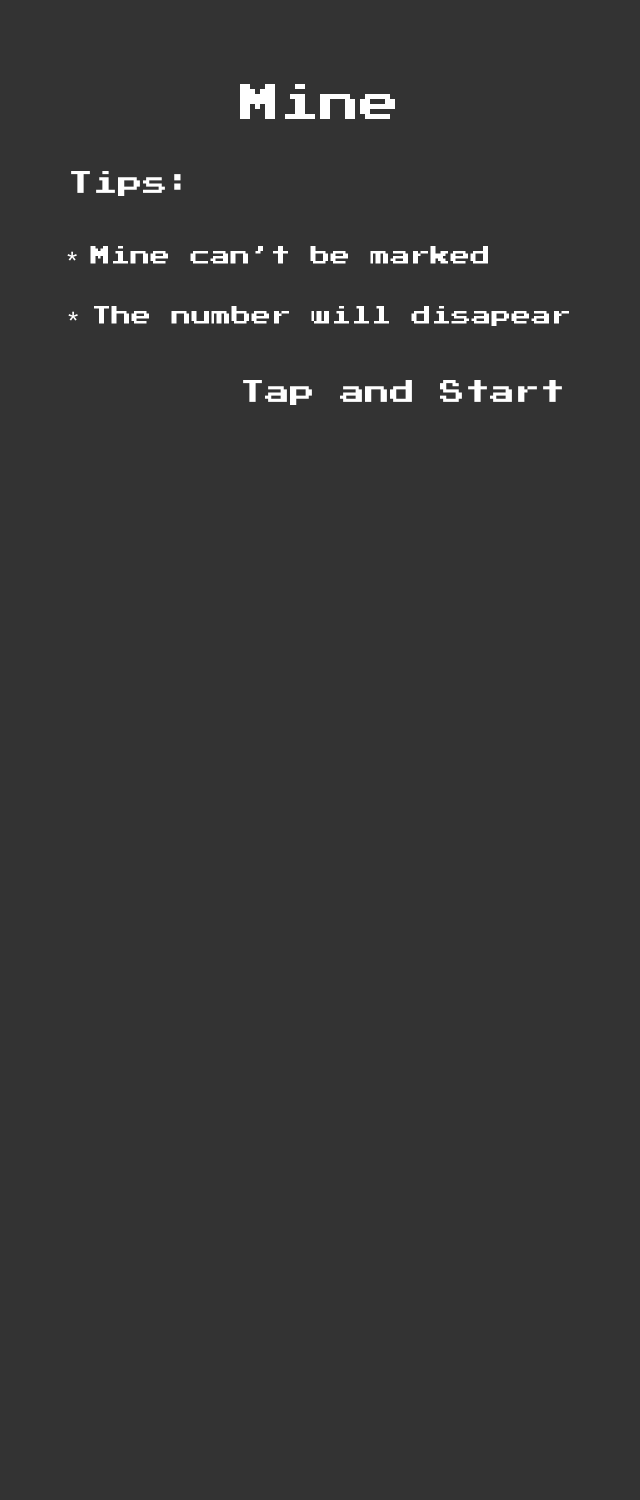
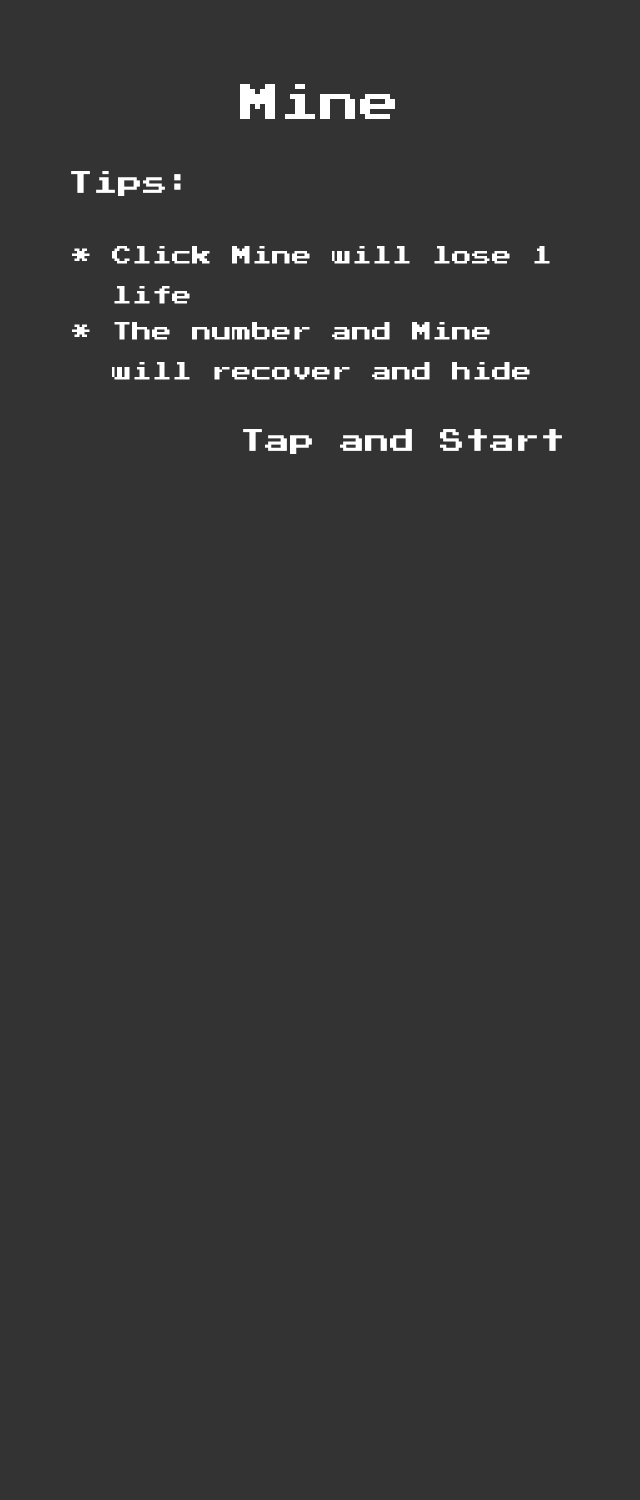
new mine

Changed region(s): [[0.0938, 0.1533, 0.875, 0.3067]]

diff --git a/src/game.js b/src/game.js
@@ -1,16 +1,19 @@
 var generator = require('./sprites/blockGenerator.js')
 var params = require('./params')
 var stage = new PIXI.Container()
-
+var life = require('./sprites/life')
 var clearGame = function() {
   stage.removeChildren()
   stage.mines = []
   stage.blocks = []
+  params.mineCount = 0
+  life.setLifeCount(12)
 }
 
 var initGame = function() {
   initMineArray()
   initBlocks()
+  console.log(stage.mines)
 }
 
 var initMineArray = function () {
@@ -38,9 +41,21 @@ var initBlocks = function() {
 var onClickBlock = function() {
   var indexPath = this.indexPath
   if (checkMine(indexPath)) {
-    this.over()
-    stage.over()
+    this.isMine = true
+    if (this.showtimer === 0) {
+      params.mineCount ++
+      life.setLifeCount(life.lifeCount - 1)
+      if (life.lifeCount === 0) {
+        stage.over()
+      }
+      if (this.mineCount >= 10) {
+        stage.success()
+      }
+      this.showtimer = 500
+      this.over()
+    }
   } else {
+    this.isMine = false
     showBlock(indexPath)
   }
 }
@@ -120,9 +135,10 @@ var postion = function(i, j) {
 stage.resetGame = function() {
   clearGame()
   initGame()
+  stage.render = render
 }
 
-stage.render = function() {
+var render = function() {
   stage.children.map(function(child) {
     if(child.render) {
       child.render()
@@ -132,6 +148,8 @@ stage.render = function() {
 
 stage.over = function () {
   this.addMask()
+  document.title = '非常熟悉的扫雷游戏，真的'
+  stage.render = undefined
 }
 
 stage.addMask = function() {
@@ -140,6 +158,12 @@ stage.addMask = function() {
 
 stage.removeMask = function() {
   stage.parent.overMask.visible = false
+  stage.parent.success.visible = false
+}
+
+stage.success = function() {
+  stage.parent.success.visible = true
+  document.title = '我是扫雷小王子!不服你也扫个给我看看'
 }
 
 module.exports = stage

diff --git a/src/sprites/blockGenerator.js b/src/sprites/blockGenerator.js
@@ -21,11 +21,11 @@ var generator = function(color, postion, ontouch) {
   container.graphics = graphics
   container.over = function () {
      this.graphics.make(param.color.red)
-     this.showtimer = 0
   }
   container.on('touchstart', ontouch)
   container.interactive = true
   container.showText = function(string) {
+    this.isMine = false
     this.graphics.alpha = 0
     this.text.text = string
     container.showtimer = 500
@@ -35,8 +35,14 @@ var generator = function(color, postion, ontouch) {
   container.render = function () {
     if (this.showtimer <= 0) {
       this.graphics.alpha = 1
+      this.graphics.make(param.color.blue)
+      if (this.isMine) {
+        param.mineCount --
+      }
     } else {
-      this.graphics.alpha = 0
+      if (!this.isMine) {
+        this.graphics.alpha = 0
+      }
       this.showtimer --
     }
   }

diff --git a/src/index.js b/src/index.js
@@ -19,10 +19,16 @@ loader.add(params.png, 'png').load(function() {
     game.resetGame()
     game.removeMask()
   })
+  var life = require('./sprites/life')
+  stage.addChild(life)
   var mask = require('./sprites/mask')
   mask.visible = false
   stage.overMask = mask
+  var success = require('./sprites/success')
+  success.visible = false
+  stage.successMask = success
   stage.addChild(mask)
+  stage.addChild(success)
   stage.addChild(reset)
   var start = require('./sprites/start')
   stage.addChild(start)

diff --git a/tasks/qiniu.js b/tasks/qiniu.js
@@ -1,6 +1,7 @@
 var path = require('path');
 var qnUpload = require('gulp-qiniu');
 var src = path.resolve(__dirname,'../src/resource/*/*.*');
+var optionDir = 'mine'
 module.exports = function(gulp){
   gulp.task('qiniu',function(){
     gulp.src(src).pipe(qnUpload({
@@ -9,6 +10,7 @@ module.exports = function(gulp){
       bucket: "pixigame",
       private: false
     },{
+      dir: optionDir,
       versionFile: './cdn.json'
     }))
   });

diff --git a/src/sprites/life/index.js b/src/sprites/life/index.js
@@ -1,0 +1,9 @@
+var param = require('../../params')
+var text = new PIXI.Text('',{font : '36px Arial', fill :param.color.blue, align : 'center'})
+text.y = 10
+text.lifeCount = 12
+text.setLifeCount = function (count) {
+  this.lifeCount = count
+  this.text = '剩余生命: ' + count + ' 条' 
+}
+module.exports = text

diff --git a/src/loader.js b/src/loader.js
@@ -4,7 +4,7 @@ var path
 if (window.NODE_ENV == 'develop') {
   path = 'games/boating/src/resource/'
 } else if (window.NODE_ENV == 'production') {
-  path = 'http://o8c60jr2y.bkt.clouddn.com/'
+  path = 'http://o8c60jr2y.bkt.clouddn.com/mine/'
 } else {
   path = 'src/resource/'
 }

diff --git a/src/sprites/success/index.js b/src/sprites/success/index.js
@@ -1,0 +1,8 @@
+var pixiLib = require('pixi-lib')
+var  mask = pixiLib.getIm({
+  textures:pixiLib.getTextures('success'),
+  x: 0, 
+  y: 0
+})
+mask.interactive = true
+module.exports = mask

diff --git a/src/params.js b/src/params.js
@@ -1,4 +1,4 @@
-var png = ['reset', 'mask', 'start']
+var png = ['reset', 'mask', 'start', 'success']
 var json = []
 var color = {
   blue:0x415C71,
